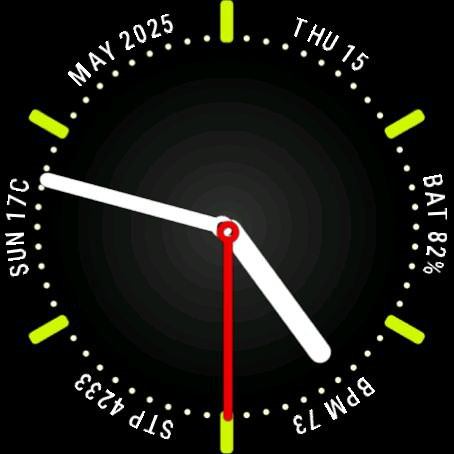
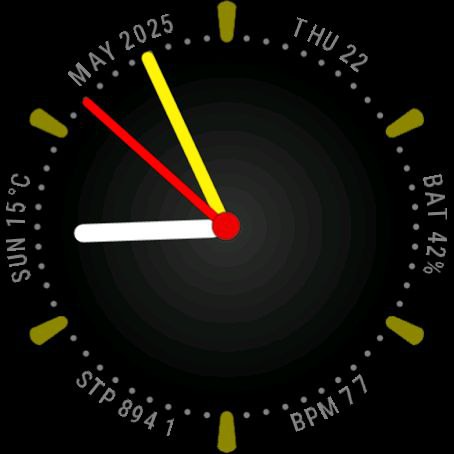
colors update, hands more prominent

diff --git a/watchface/index.js b/watchface/index.js
@@ -164,34 +164,6 @@ WatchFace({
     });
   },
 
-  buildFloors() {
-    const textWidget = hmUI.createWidget(hmUI.widget.TEXT, {
-      ...OUTER_TEXT_PROPS,
-      start_angle: 120,
-      end_angle: 180,
-    });
-
-    const heartSensor = hmSensor.createSensor(hmSensor.id.HEART);
-
-    const update = () => {
-      const { last } = heartSensor;
-      const text = `BPM ${last}`.toUpperCase();
-      textWidget.setProperty(hmUI.prop.TEXT, text);
-    };
-
-    hmUI.createWidget(hmUI.widget.WIDGET_DELEGATE, {
-      resume_call: () => {
-        if (hmSetting.getScreenType() == hmSetting.screen_type.WATCHFACE) {
-          heartSensor.addEventListener?.(hmSensor.event.LAST, update);
-          update();
-        }
-      },
-      pause_call: () => {
-        heartSensor.removeEventListener?.(hmSensor.event.LAST, update);
-      },
-    });
-  },
-
   buildWeather() {
     const textWidget = hmUI.createWidget(hmUI.widget.TEXT, {
       ...OUTER_TEXT_PROPS,

diff --git a/watchface/index.r.layout.js b/watchface/index.r.layout.js
@@ -79,7 +79,7 @@ export const OUTER_TEXT_PROPS = {
   w: SCREEN.width - px(0),
   h: SCREEN.height - px(0),
   text_size: px(26),
-  color: 0xffffff,
+  color: 0x808080,
   text: '',
   align_h: hmUI.align.CENTER_H,
   align_v: hmUI.align.TOP,
